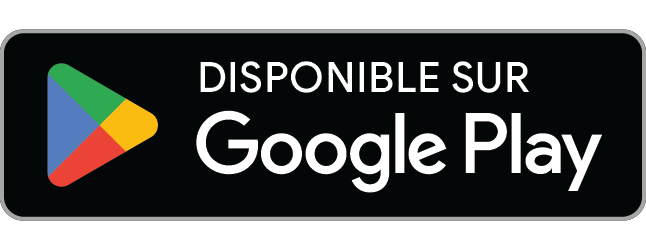
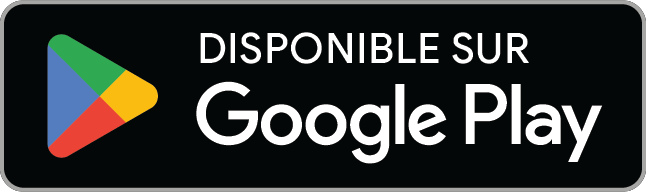
Badges officiels en français, même hauteur

diff --git a/index.html b/index.html
@@ -48,8 +48,7 @@ h1 { font: 700 clamp(2.6rem, 9vw, 7rem)/.9 var(--chiffres); margin: 0; color: va
 .accroche { font-size: clamp(1.2rem, 2.4vw, 1.6rem); max-width: 30ch; margin: 18px 0 28px; line-height: 1.35; }
 .stores { display: flex; flex-wrap: wrap; gap: 14px; align-items: center; }
 .stores a { display: block; }
-.stores img { height: 54px; width: auto; }
-.stores img[data-badge="google"] { height: 80px; margin: -13px -10px; }
+.stores img { height: 54px; width: auto; }  /* même hauteur pour les deux badges officiels */
 .prix { color: var(--brume); font-size: .95rem; margin-top: 14px; }
 .langue { position: absolute; top: 18px; right: 20px; z-index: 2; display: flex; gap: 4px;
   background: rgba(20,23,38,.6); border-radius: 999px; padding: 4px; backdrop-filter: blur(6px); }
@@ -113,8 +112,7 @@ footer a { color: var(--brume); }
   .vitrine { grid-template-columns: 1fr; max-width: 360px; margin-inline: auto; }
   .vitrine figure:nth-child(2) { margin-top: 0; }
   .presse { grid-template-columns: 1fr; }
-  .stores img { height: 48px; }
-  .stores img[data-badge="google"] { height: 71px; margin: -11px -9px; }
+  .stores img { height: 46px; }
 }
 </style>
 </head>
@@ -137,7 +135,7 @@ footer a { color: var(--brume); }
     <p class="accroche" data-i18n="accroche">Fondez une ville en 1950 et faites-la grandir jusqu'à la ville de demain.</p>
     <div class="stores">
       <a href="https://apps.apple.com/app/id6831504134" data-i18n-href="apple">
-        <img data-badge="apple" src="img/appstore_en.svg" alt="Télécharger dans l'App Store" data-alt-en="Download on the App Store"></a>
+        <img data-badge="apple" src="img/appstore_fr.svg" alt="Télécharger dans l'App Store" data-alt-en="Download on the App Store"></a>
       <a href="https://play.google.com/store/apps/details?id=com.kennycaldieraro.metropix">
         <img data-badge="google" src="img/googleplay_fr.png" alt="Disponible sur Google Play" data-alt-en="Get it on Google Play"></a>
     </div>
@@ -273,7 +271,7 @@ const FR = {};
 document.querySelectorAll("[data-i18n]").forEach(el => FR[el.dataset.i18n] = el.textContent);
 let lang = "fr";
 const BADGES = {
-  fr: { apple: "img/appstore_en.svg", google: "img/googleplay_fr.png" },
+  fr: { apple: "img/appstore_fr.svg", google: "img/googleplay_fr.png" },
   en: { apple: "img/appstore_en.svg", google: "img/googleplay_en.png" }
 };
 const altFr = new Map();
